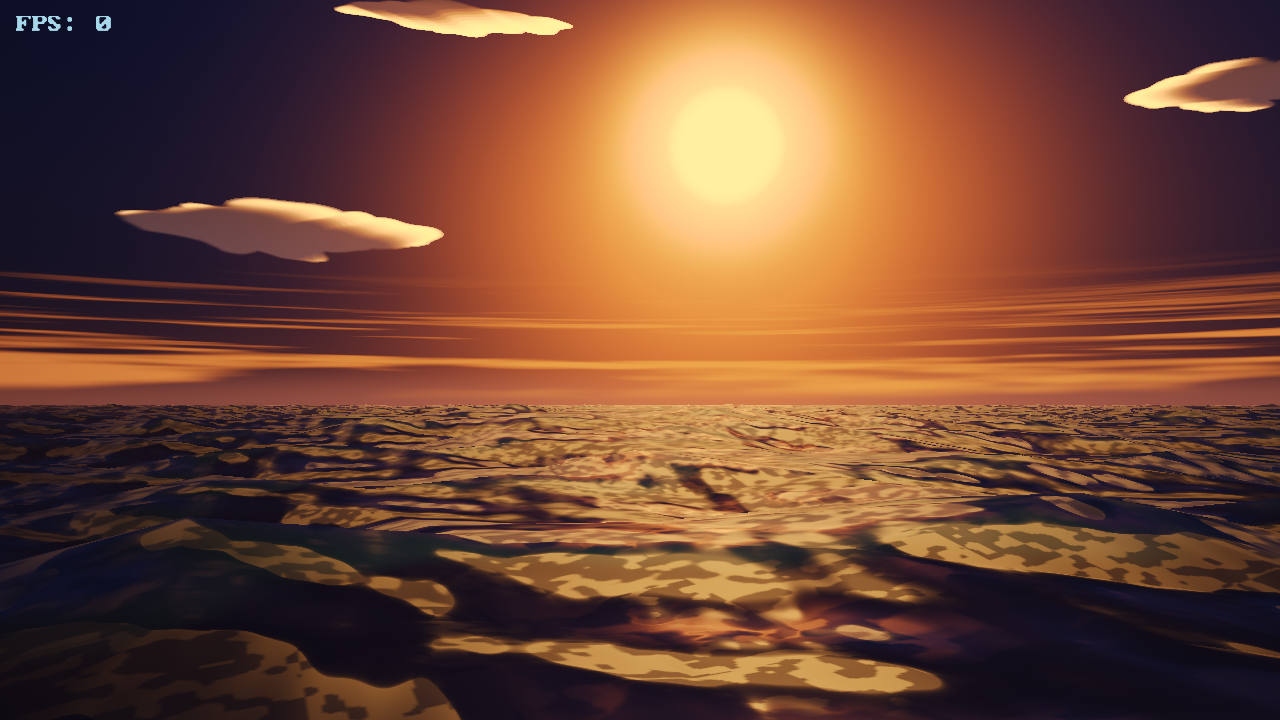
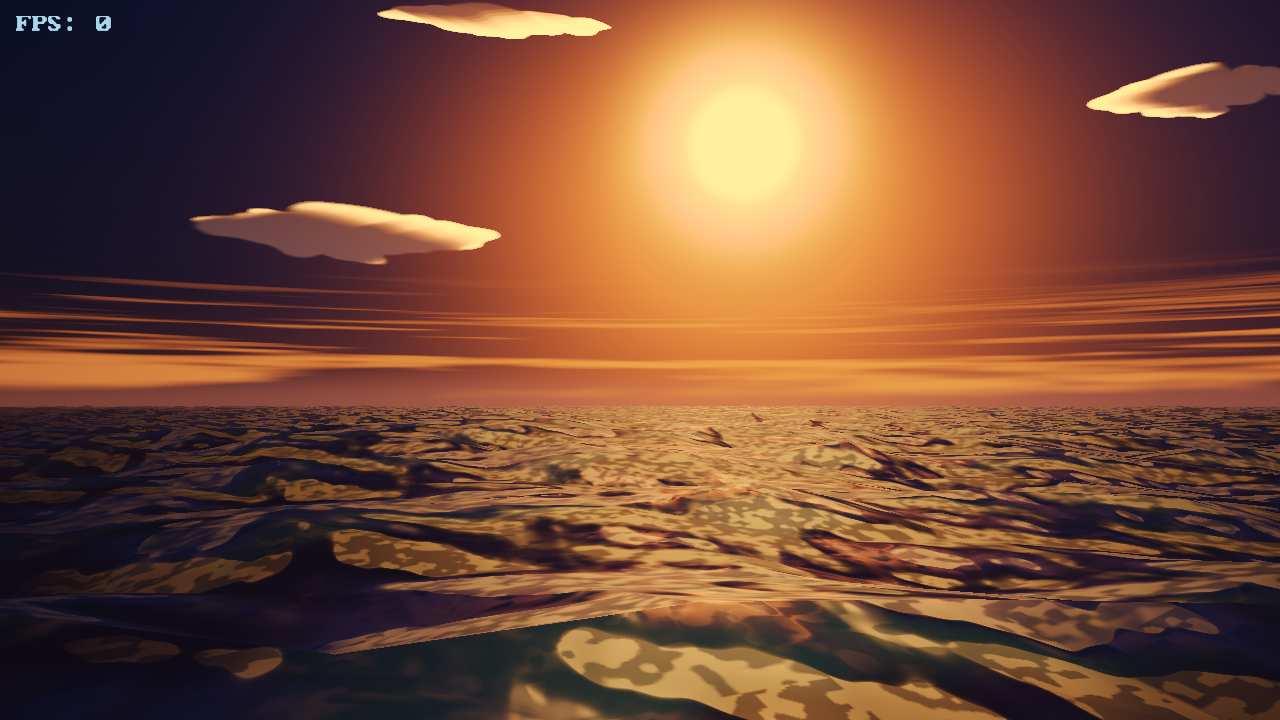
Fix scene 2's camo plates: haze the sun glint, restore sub-pixel slope variance
The pale hard-edged plates on the dusk ocean are the SUN GLINT, not the
fresnel weight. Packed-channel captures (t=36, far band rows 412-487) put the
high-pass correlation with the final frame at +0.914 for the glint add and
+0.838 for the GGX lobe value (off/mid/on thirds of the sun column: +0.89 /
+0.93 / +0.83), against -0.03 for the fresnel mix weight; the brightest fifth
of that band sits at sp = 2.07 on the 2.17 roll-off ceiling (a flat-topped
plate) and the darkest fifth at 0.18 (the rim). Three fresnel-side attempts
were measured and rejected: relaxing N before the Schlick pow (+31% sea mean,
one uniform plate), mixing point-F toward its mean under the Nlit gate
(<0.2pp), and a smoothstep average of F toward 0.60 (0.1-0.2pp, a no-op).

Two defects fixed in shaders/ps14/sea_frag.glsl:
- The glitter was added AFTER both aerial-perspective mixes, so it punched
  through at full contrast while the water under it washed into the sky. It
  now carries (1 - horizonWash) * (1 - hazeWash) -- algebraically identical to
  moving the add above both mixes.
- Octaves removed by the footprint gate zero the height field, so slopeSpread
  reported no slope range for the widest pixels (measured 0.044 against the
  0.133 available at row 408, 0 below row 488) and their lobe kept the bare
  roughness floor. hiddenVar restores that sub-pixel variance; the near field
  is untouched by construction.

Measured on the new deterministic shot clock (this build; two runs of the same
[…]

diff --git a/REFERENCES.md b/REFERENCES.md
@@ -179,6 +179,114 @@ Realism takeaways applied:
   glazing bars over them. Emissive geometry is only believable if the frame behind it still exists —
   the bars and the sill are what stop a lit pane reading as a sticker.
 
+## BUILD-P28: the rig P27 asked for, and what it found when it arrived
+
+This build ships **the deterministic shot clock, a corrected diagnosis, and a
+fix that wins on all three phases with the sea mean held.** P27's closing line
+was that a fix for scene 2's camo plates could not be claimed until capture was
+pinned to an exact simulated time. That instrument exists now, and once it did,
+the plates turned out to belong to the sun glint rather than to fresnel.
+
+### The instrument: a shot clock with a zero noise floor
+
+`src/scene2.cxx` clamps the simulation time to the requested shot time: after
+`float t = (float)(now - gStartTime);`, if shots are armed and `t` has reached
+the next shot, `t` is held at exactly `gShotTimes[gNextShot]`. Every frame that
+captures that shot therefore renders the same wave phase, the same cloud deck
+and the same dither. Two runs of the same code at t=36 are **byte-identical**
+(`md5 de5bc76e438219fd6ddea54cd7dcb8a9`), so the repeatability floor P27
+measured at 7–9 % is now **0** — and any non-zero delta between two captures is
+real signal, no matter how small.
+
+`scripts/sea_sweep.sh OUTDIR WIDTH T1,T2,T3` renders the three phases
+(`--scene-only`) sequentially for the A/B. Every sweep below was grepped for
+`failed:` / `error:` / `GL_INVALID` first and came back clean.
+
+### The diagnosis correction: it is the glint, and the fresnel weight is not it
+
+Three instrumented captures packed single terms into RGB and were read against
+the real frame (far band, rows 412–487, t=36):
+
+| packed channel | high-pass corr. with the final image |
+| --- | --- |
+| sun-glint add | **+0.914** |
+| GGX lobe value `sp` | **+0.838** (+0.89 / +0.93 / +0.83 across the off/mid/on thirds of the sun column) |
+| fresnel mix weight | **−0.03** |
+
+The brightest fifth of that band sits at `sp = 2.07` against the 2.17 roll-off
+ceiling — a flat-topped plate — and the darkest fifth at `sp = 0.18`, the rim.
+So P26/P27's account (fresnel saturating at 0.92, printing the wave field at
+92 % contrast) does not survive the instrument: the fresnel map carries edges
+that simply do not appear in the frame.
+
+Three fresnel-side fixes were measured and rejected on the new rig:
+
+| attempt | result |
+| --- | --- |
+| relax `N` toward flat **before** the Schlick pow | sea mean **+31 %** (0.246 → 0.348), E>.08 **0.00 %**, one uniform bright plate, 29 % of the band in a single blob |
+| mix point-F toward its mean under the Nlit gate | far-median `slopeSpread` is 0.20, so the gate tops out at 0.32 — **under 0.2 pp** |
+| smoothstep F average toward 0.60 (p28E / p28F) | **0.1–0.2 pp** at all three phases — a no-op, because the gate variable collapses where the artefact lives |
+
+### The two defects that were real
+
+**1. The glint punched through aerial perspective.** `color` is washed toward
+`skyAtHorizon` twice (horizon mix, then haze) before the glitter is added, so
+the surface it sits on fades into the sky while the specular lobe arrives at
+full strength. An instrumented capture put 91 % of that band's structure in
+the glint on a band that is otherwise 60 % sky — every hit/miss of the lobe
+landing at full contrast against a washed background *is* the camo. The fix is
+not a knob, it is the ordering: the glint is now multiplied by
+`(1 - horizonWash) * (1 - hazeWash)`, algebraically identical to moving the add
+above both mixes.
+
+**2. The widest pixels claimed no slope range.** The Toksvig widening below is
+`sqrt(rough² + 0.65·slopeSpread²)`, and `slopeSpread = curv · foot` — but `curv`
+is derived from the height field the octave gate just zeroed, so an octave that
+has been switched out contributes nothing. Packed capture (t=32) measured foot
+falling from 7.65 m at row 408 to 0.20 m by row 536, with `slopeSpread` healthy
+(≥0.30) throughout — while the sub-pixel variance of the removed octaves
+(`hiddenVar`, 0.5·A²k²·(1−gate²) summed per octave) was **0.044 against the 0.133
+a fully decorrelated pixel would carry**, and exactly 0 below row 488. So the
+pixels covering 1.4–8 m of water reported less slope range than they cover, and
+their lobe kept the bare floor. `hiddenVar` restores only that, and the near
+field is untouched by construction.
+
+### What it measures (p26report, vs the P25 baseline p28A)
+
+| | t=32 | t=36 | t=40 |
+| --- | --- | --- | --- |
+| sea mean | 0.2458 → **0.2440** | 0.2658 → **0.2642** | 0.2587 → **0.2574** |
+| E>.08 | 51.76 → **51.56** | 53.20 → **53.00** | 45.58 → **45.41** |
+| E>.12 | 44.43 → **44.15** | 46.65 → **46.37** | 39.03 → **38.85** |
+| gbar | 0.2272 → **0.2216** | 0.2372 → **0.2322** | 0.1900 → **0.1869** |
+| rim | 21.7 → **20.6** | 18.6 → **17.9** | 13.7 → **13.1** |
+
+All five move the right way at all three phases, the mean shifts 0.0013–0.0018
+(well inside ±0.01), and the floor is 0. The change is also **where the defect
+is**: rows 406–418 lose 7.4 pp of edge density and 21 % of their mean gradient,
+rows 418–442 lose 1.4–2.2 pp, everything below row 520 moves ≤0.14 pp, and rows
+0–403 (sky) are byte-identical. `bands.py` on the far band: 83.28 → 82.44 with
+the hard-boundary share 28.3 → 26.0.
+
+### Rejected on the new rig, recorded so they are not retried
+
+- **Double the existing `slopeSpread` weight (0.65 → 1.30) — p28G.** The plate
+  zone really did improve (rows 412–487 E>.08 −2.8 / −0.9 / −1.0 pp, rim −1.3 to
+  −3.2 pp), but *every* row from 487 down lifted +0.010…+0.024 luma and gained up
+  to +1.9 pp: whole-sea mean **+0.012** (over budget) and E>.08 **+1.3 to +2.3**.
+  Widening the lobe where the waves are resolved converts a few large gradients
+  into many small ones — gbar falls, the edge count rises. Scoping is not
+  optional; `hiddenVar` alone (p28H) keeps the direction (E>.08 −0.03, gbar
+  −0.002) but delivers almost nothing, which is why it ships as the second,
+  smaller half of the fix rather than on its own.
+- **Any amplitude cut to the glint.** The mean budget forbids it: the glint is
+  most of the far band's luma, so dimming it moves sea mean faster than it moves
+  edge density. Attenuating it *with* aerial perspective instead of by a gain
+  spends the same light only where the atmosphere should have spent it.
+
+`docs/screenshots/ps14_dusk_t36.png` **is** regenerated in this build — the one
+P27 deliberately left alone.
+
 ## BUILD-P27: the plates are a contrast defect, and the rig cannot resolve a fix
 
 This build ships **no shader change.** It records two things: a diagnosis that
